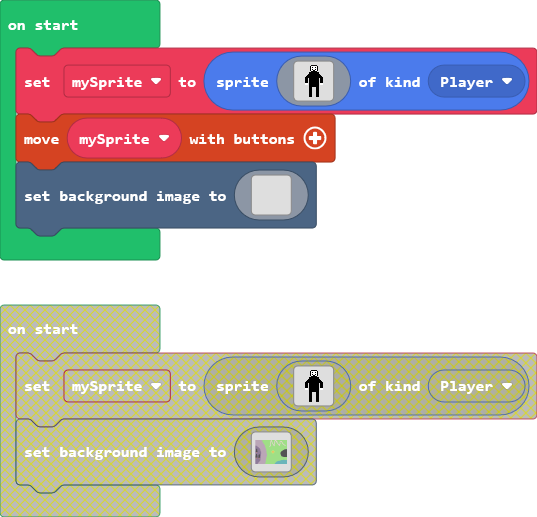
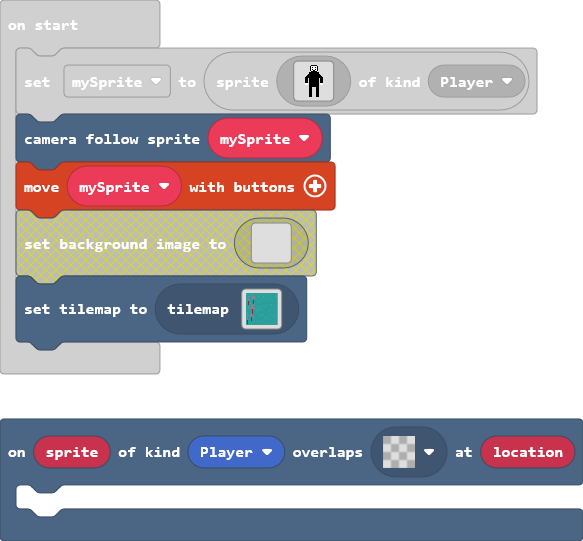
Added a tilemap and trees :)

diff --git a/main.ts b/main.ts
@@ -1,3 +1,6 @@
+scene.onOverlapTile(SpriteKind.Player, assets.tile`transparency16`, function (sprite, location) {
+	
+})
 let mySprite = sprites.create(img`
     .............ffffff.............
     ............f111111f............
@@ -32,126 +35,6 @@ let mySprite = sprites.create(img`
     ...........fff....fff...........
     ...........fff....fff...........
     `, SpriteKind.Player)
+scene.cameraFollowSprite(mySprite)
 controller.moveSprite(mySprite)
-scene.setBackgroundImage(img`
-    ................................................................................................................................................................
-    ................................................................................................................................................................
-    ................................................................................................................................................................
-    ................................................................................................................................................................
-    ................................................................................................................................................................
-    ................................................................................................................................................................
-    ................................................................................................................................................................
-    ................................................................................................................................................................
-    ................................................................................................................................................................
-    ................................................................................................................................................................
-    ................................................................................................................................................................
-    ................................................................................................................................................................
-    ................................................................................................................................................................
-    ................................................................................................................................................................
-    ................................................................................................................................................................
-    ................................................................................................................................................................
-    ................................................................................................................................................................
-    ................................................................................................................................................................
-    ................................................................................................................................................................
-    ................................................................................................................................................................
-    ................................................................................................................................................................
-    ................................................................................................................................................................
-    ................................................................................................................................................................
-    ................................................................................................................................................................
-    ................................................................................................................................................................
-    ................................................................................................................................................................
-    ................................................................................................................................................................
-    ................................................................................................................................................................
-    ................................................................................................................................................................
-    ................................................................................................................................................................
-    ................................................................................................................................................................
-    ................................................................................................................................................................
-    ................................................................................................................................................................
-    ................................................................................................................................................................
-    ................................................................................................................................................................
-    ................................................................................................................................................................
-    ................................................................................................................................................................
-    ................................................................................................................................................................
-    ................................................................................................................................................................
-    ................................................................................................................................................................
-    ................................................................................................................................................................
-    ................................................................................................................................................................
-    ................................................................................................................................................................
-    ................................................................................................................................................................
-    ................................................................................................................................................................
-    ................................................................................................................................................................
-    ................................................................................................................................................................
-    ................................................................................................................................................................
-    ................................................................................................................................................................
-    ................................................................................................................................................................
-    ................................................................................................................................................................
-    ................................................................................................................................................................
-    ................................................................................................................................................................
-    ................................................................................................................................................................
-    ................................................................................................................................................................
-    ................................................................................................................................................................
-    ................................................................................................................................................................
-    ................................................................................................................................................................
-    ................................................................................................................................................................
-    ................................................................................................................................................................
-    ................................................................................................................................................................
-    ................................................................................................................................................................
-    ................................................................................................................................................................
-    ................................................................................................................................................................
-    ................................................................................................................................................................
-    ................................................................................................................................................................
-    ................................................................................................................................................................
-    ................................................................................................................................................................
-    ................................................................................................................................................................
-    ................................................................................................................................................................
-    ................................................................................................................................................................
-    ................................................................................................................................................................
-    ................................................................................................................................................................
-    ................................................................................................................................................................
-    ................................................................................................................................................................
-    ................................................................................................................................................................
-    ................................................................................................................................................................
-    ................................................................................................................................................................
-    ................................................................................................................................................................
-    ................................................................................................................................................................
-    ................................................................................................................................................................
-    ................................................................................................................................................................
-    ................................................................................................................................................................
-    ................................................................................................................................................................
-    ................................................................................................................................................................
-    ................................................................................................................................................................
-    ................................................................................................................................................................
-    ................................................................................................................................................................
-    ................................................................................................................................................................
-    ................................................................................................................................................................
-    ................................................................................................................................................................
-    ................................................................................................................................................................
-    ................................................................................................................................................................
-    ................................................................................................................................................................
-    ................................................................................................................................................................
-    ................................................................................................................................................................
-    ................................................................................................................................................................
-    ................................................................................................................................................................
-    ................................................................................................................................................................
-    ................................................................................................................................................................
-    ................................................................................................................................................................
-    ................................................................................................................................................................
-    ................................................................................................................................................................
-    ................................................................................................................................................................
-    ................................................................................................................................................................
-    ................................................................................................................................................................
-    ................................................................................................................................................................
-    ................................................................................................................................................................
-    ................................................................................................................................................................
-    ................................................................................................................................................................
-    ................................................................................................................................................................
-    ................................................................................................................................................................
-    ................................................................................................................................................................
-    ................................................................................................................................................................
-    ................................................................................................................................................................
-    ................................................................................................................................................................
-    ................................................................................................................................................................
-    ................................................................................................................................................................
-    ................................................................................................................................................................
-    ................................................................................................................................................................
-    `)
+tiles.setCurrentTilemap(tilemap`level1`)

diff --git a/tilemap.g.ts b/tilemap.g.ts
@@ -1,0 +1,67 @@
+// Auto-generated code. Do not edit.
+namespace myTiles {
+    //% fixedInstance jres blockIdentity=images._tile
+    export const transparency16 = image.ofBuffer(hex``);
+    //% fixedInstance jres blockIdentity=images._tile
+    export const tile1 = image.ofBuffer(hex``);
+    //% fixedInstance jres blockIdentity=images._tile
+    export const tile2 = image.ofBuffer(hex``);
+    //% fixedInstance jres blockIdentity=images._tile
+    export const tile3 = image.ofBuffer(hex``);
+
+    helpers._registerFactory("tilemap", function(name: string) {
+        switch(helpers.stringTrim(name)) {
+            case "level1":
+            case "level1":return tiles.createTilemap(hex`2000200003030303030303030303030303030303030303030303030303010103030303030203030303030203030303030303030303030303030303030103010303030303030303030303030603030303030303030303030303030301030303010303030303030203030306060603030302030303030203030303010303030301030203030303030303060606060603030303030303030303030301030303030301030303030306030303060606030303030303030303030303010303030303030301030303060606030303060303030303030303030303030101030303030303030103030306060603010304030303030303030303030303030102030303030303010303030305030303010401030303030203030303030303010101030303030301030303030503030301040101030303030303030301010101030301010103030103030303050302030304020303030303010101010101030103030303030101030103030305030303060303030301010101030303030301010303030203030303010303030303030606060301010103030303030303030201030303030303030301030301030303060606010103030303030303030303030103030303030303030103030102030606060606030303030303030303030303010103030303030303010303030303060606060603030303030303030303010101010101030303030303010303030303010403030303030302030303030101010101030301010303030301030303010103050303030203030303030101030301010102030303010303010303030103030304010303030303030101010303010101030303030103030103030306030303030501030303030101010101010101010303030301030303010303030601030303040103010101030103030303030103030301010303030103030303060301060606010103010301030303030301030301010303030101030303030306030306060603010303010103030203030101010303030301030302030303030603030606060301030301010303030301010303030303030103030303030303060301010401020101010103010101010303020303030301030303030303030306010303050303010303010101010101030303030303010303030303030303060606030304030301010101010101010303030303010102010101010303030301040101010501010301030101010103030303030101010303010301010303030304030303030303030103030203010303010101030303010103030301030303030403030303030303010301030301020103030303030303030101010203030303040303030303030301010303030303030303030303030303030303030303030303030303020303030303030303030303030303030303030303030303030303`, img`
+................................
+................................
+.......2........................
+......222.......................
+.....22222......................
+..2...222.......................
+.222...2........................
+.222...2........................
+..2....2........................
+..2....2........................
+..2....2........................
+..2...2.........................
+.....222........................
+.....222........................
+....22222.......................
+....22222.......................
+......2.........................
+......2.........................
+......2.........................
+.2....2.........................
+.2....2.........................
+.2..222.........................
+.2..222.........................
+.2..222.........................
+.2...2..........................
+.2...2..........................
+222..2..........................
+.2...2..........................
+.2..............................
+.2..............................
+.2..............................
+................................
+`, [myTiles.transparency16,sprites.castle.tileDarkGrass3,sprites.castle.tileDarkGrass2,sprites.castle.tileDarkGrass1,myTiles.tile1,myTiles.tile2,myTiles.tile3], TileScale.Sixteen);
+        }
+        return null;
+    })
+
+    helpers._registerFactory("tile", function(name: string) {
+        switch(helpers.stringTrim(name)) {
+            case "transparency16":return transparency16;
+            case "myTile":
+            case "tile1":return tile1;
+            case "myTile0":
+            case "tile2":return tile2;
+            case "myTile1":
+            case "tile3":return tile3;
+        }
+        return null;
+    })
+
+}
+// Auto-generated code. Do not edit.
